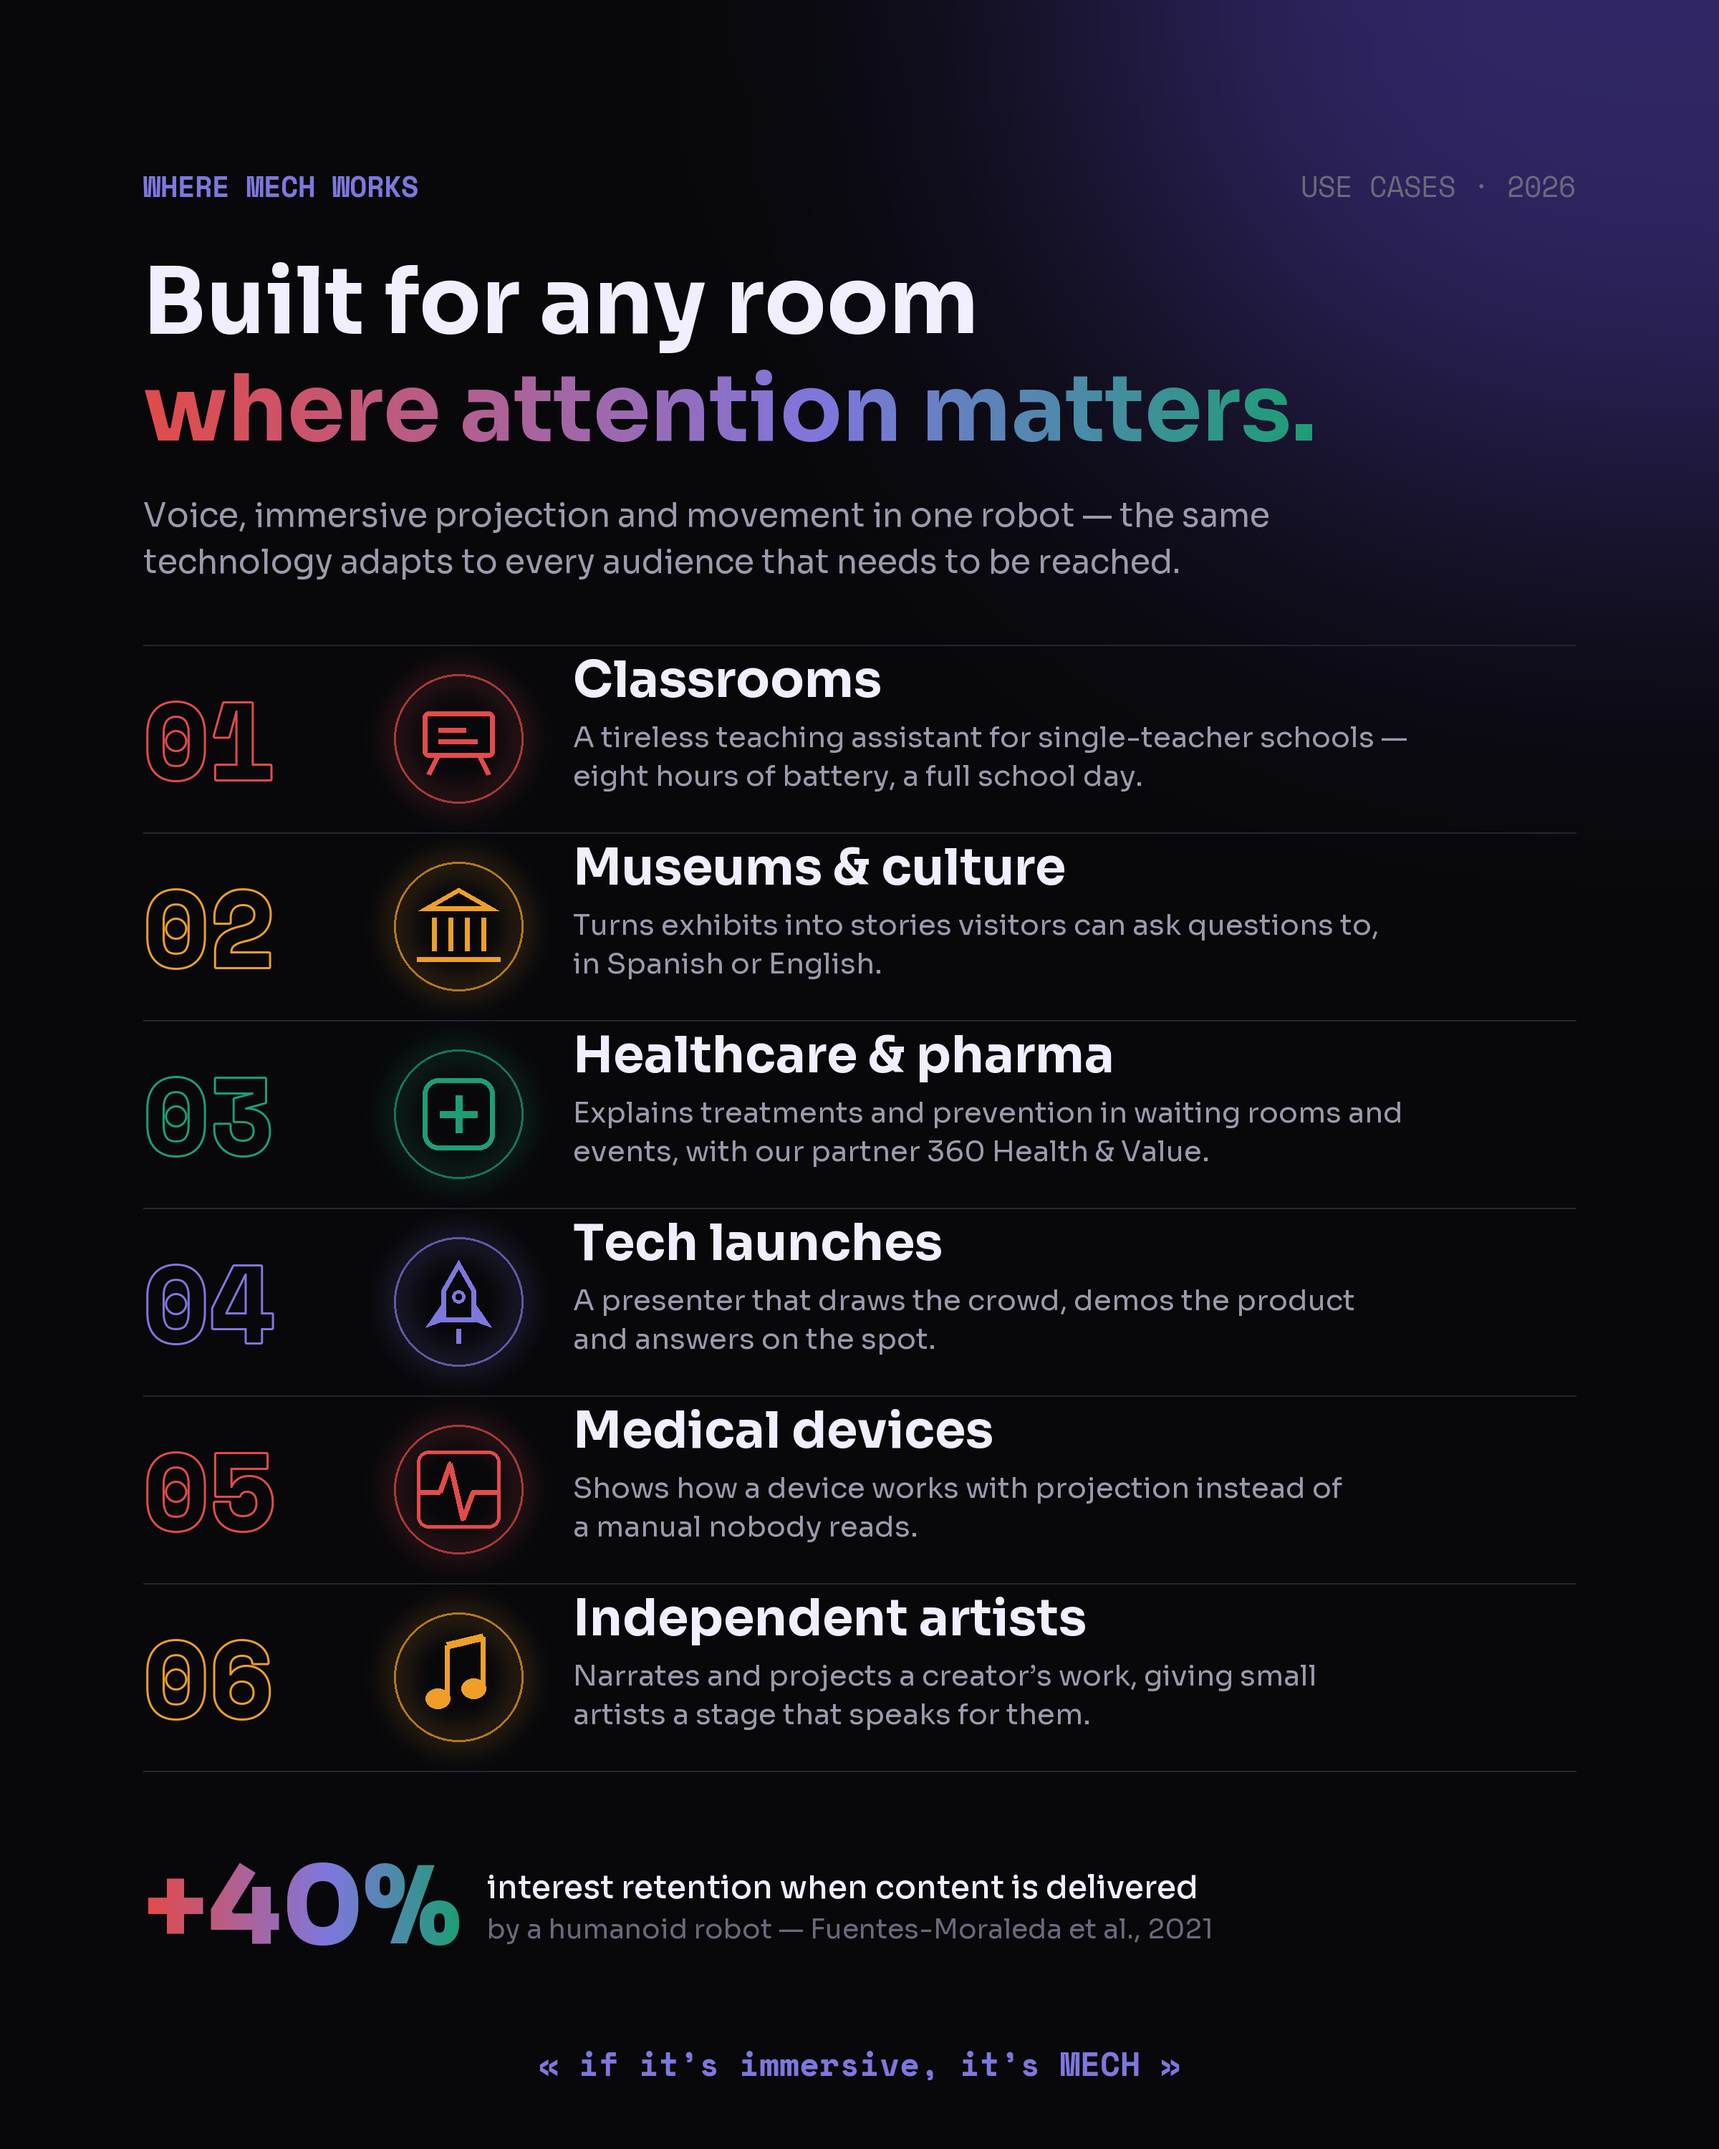
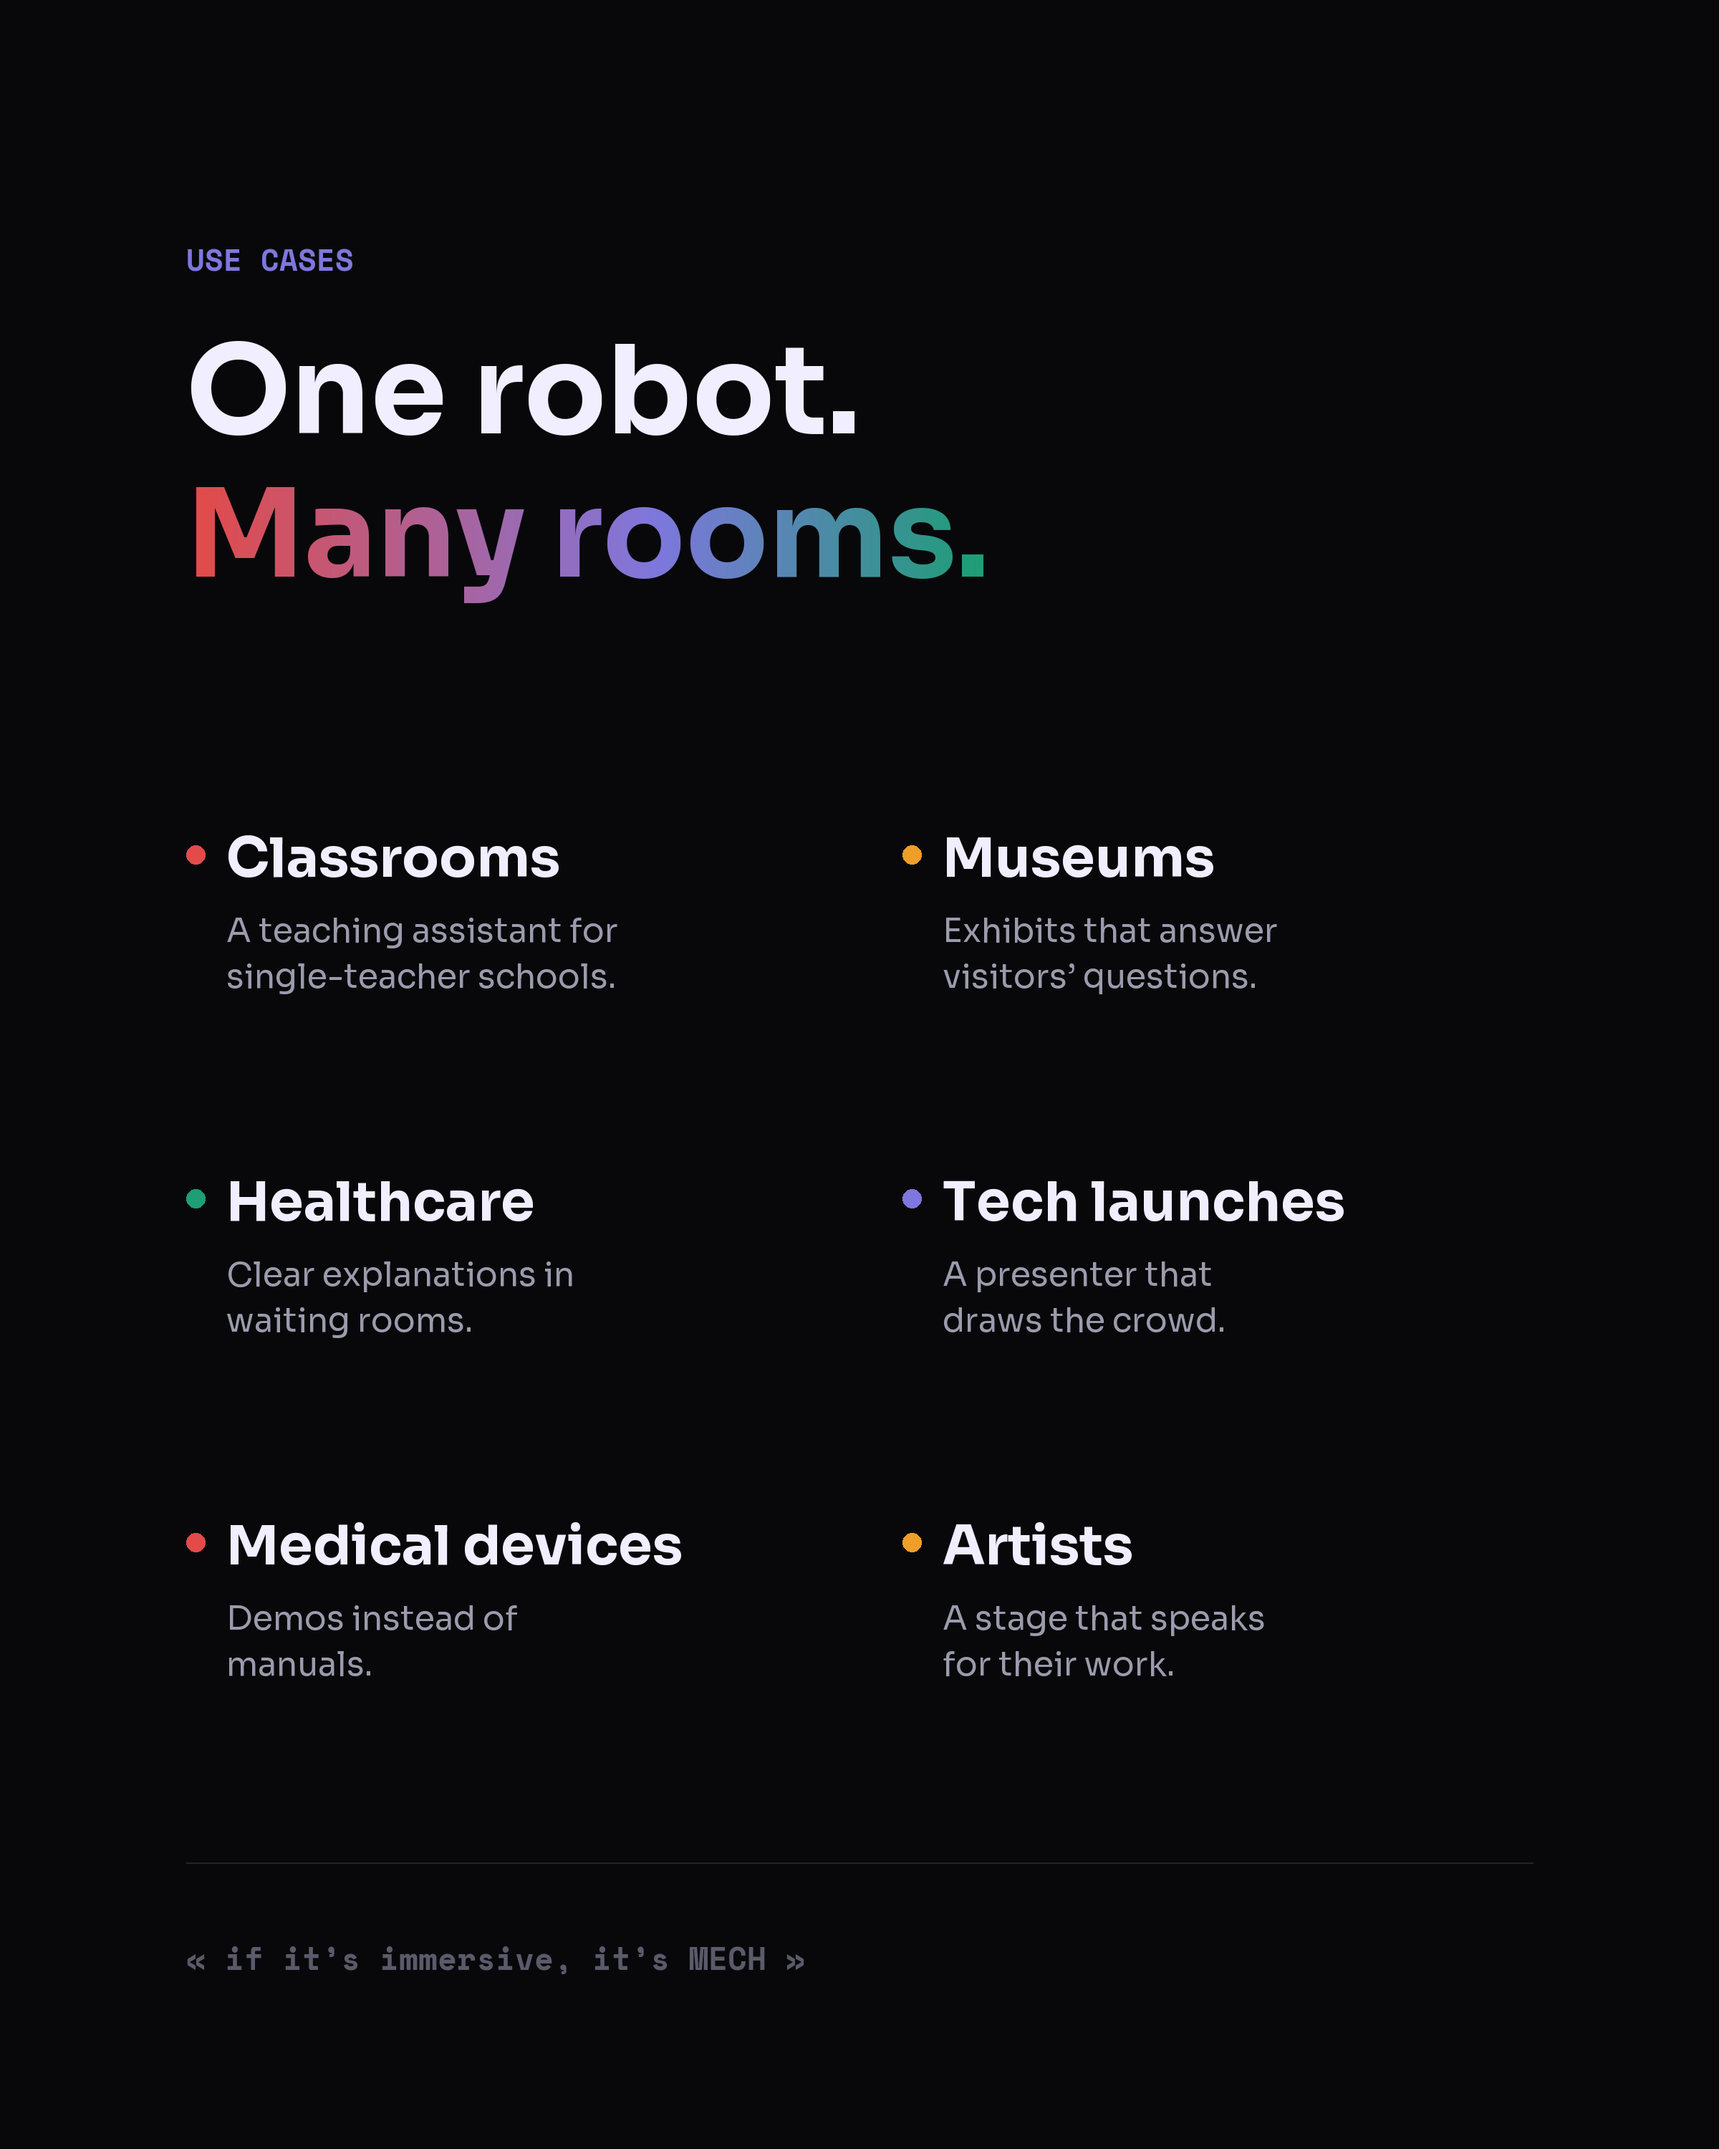
Ficha de usos EN mas simple y ojo del render 2D con borde inferior recto

diff --git a/branding/scripts/ficha_usos_en.py b/branding/scripts/ficha_usos_en.py
@@ -1,130 +1,61 @@
-# Ficha de usos EN INGLES (distinta de ficha_usos.py): lista editorial numerada,
-# un uso por fila con numero grande en contorno, icono de linea y descripcion.
-# Sin MECH al centro. Fondo negro del stand. -> branding/stand/ficha-usos-en.png
-import os, math
+# Ficha de usos EN INGLES, version simple: titulo corto y seis usos en dos
+# columnas (punto de color + nombre + una linea). Mucho aire, sin iconos ni
+# numeros. Sin MECH al centro. Fondo negro del stand. -> branding/stand/ficha-usos-en.png
+import os
 import numpy as np
-from PIL import Image, ImageDraw, ImageFont, ImageFilter
+from PIL import Image, ImageDraw, ImageFont
 
 HERE = os.path.dirname(os.path.abspath(__file__))
 OUT = os.path.join(HERE, '..', 'stand', 'ficha-usos-en.png')
 W, H = 2400, 3000
-BG = (8, 8, 11); TEXT = (240, 238, 255); MUTED = (155, 155, 173); DIM = (106, 106, 124)
-RED = (226, 75, 74); PUR = (83, 74, 183); PURM = (127, 119, 221); AMB = (239, 159, 39); TEAL = (29, 158, 117)
+BG = (8, 8, 11); TEXT = (240, 238, 255); MUTED = (155, 155, 173); DIM = (90, 90, 106)
+RED = (226, 75, 74); PURM = (127, 119, 221); AMB = (239, 159, 39); TEAL = (29, 158, 117)
 
 def sora(size, wt):
     f = ImageFont.truetype(os.path.join(HERE, 'Sora.ttf'), size); f.set_variation_by_axes([wt]); return f
-def mono(size, bold=True):
-    return ImageFont.truetype(os.path.join(HERE, 'SpaceMono-Bold.ttf' if bold else 'SpaceMono-Regular.ttf'), size)
+def mono(size):
+    return ImageFont.truetype(os.path.join(HERE, 'SpaceMono-Bold.ttf'), size)
 
 img = Image.new('RGB', (W, H), BG)
 d = ImageDraw.Draw(img)
 
-def grad_text(xy, txt, font, stops, anchor='la'):
+def grad_text(xy, txt, font, stops):
     m = Image.new('L', (W, H), 0)
-    ImageDraw.Draw(m).text(xy, txt, font=font, fill=255, anchor=anchor)
-    box = m.getbbox()
-    if not box: return
-    x0, x1 = box[0], box[2]
-    t = np.clip((np.arange(W) - x0) / max(1, x1 - x0), 0, 1)
+    ImageDraw.Draw(m).text(xy, txt, font=font, fill=255)
+    x0, _, x1, _ = m.getbbox()
+    t = np.clip((np.arange(W) - x0) / (x1 - x0), 0, 1)
     cols = np.zeros((W, 3))
-    for i in range(len(stops) - 1):
-        p0, c0 = stops[i]; p1, c1 = stops[i + 1]
+    for (p0, c0), (p1, c1) in zip(stops, stops[1:]):
         sel = (t >= p0) & (t <= p1)
         k = ((t[sel] - p0) / (p1 - p0))[:, None]
         cols[sel] = np.array(c0) * (1 - k) + np.array(c1) * k
-    layer = Image.fromarray(np.repeat(cols[None], H, axis=0).astype(np.uint8), 'RGB')
-    img.paste(layer, (0, 0), m)
+    img.paste(Image.fromarray(np.repeat(cols[None], H, 0).astype(np.uint8)), (0, 0), m)
 
-STOPS = [(0, RED), (.58, PURM), (1, TEAL)]
-L = 200; R = W - 200
+L = 260
 
-# halo tenue arriba a la derecha
-glow = Image.new('RGB', (W, H), (0, 0, 0))
-ImageDraw.Draw(glow).ellipse([1500, -500, 2900, 700], fill=(40, 30, 90))
-img = Image.fromarray(np.clip(np.array(img, int) + np.array(glow.filter(ImageFilter.GaussianBlur(260)), int), 0, 255).astype(np.uint8))
-d = ImageDraw.Draw(img)
+d.text((L, 330), 'USE CASES', font=mono(42), fill=PURM)
+d.text((L, 440), 'One robot.', font=sora(170, 700), fill=TEXT)
+grad_text((L, 640), 'Many rooms.', sora(170, 700), [(0, RED), (.58, PURM), (1, TEAL)])
 
-# cabecera
-d.text((L, 230), 'WHERE MECH WORKS', font=mono(40), fill=PURM)
-d.text((R, 230), 'USE CASES · 2026', font=mono(40, False), fill=DIM, anchor='ra')
-d.text((L, 340), 'Built for any room', font=sora(128, 700), fill=TEXT)
-grad_text((L, 490), 'where attention matters.', sora(128, 700), STOPS)
-d.text((L, 690), 'Voice, immersive projection and movement in one robot — the same', font=sora(46, 400), fill=MUTED)
-d.text((L, 755), 'technology adapts to every audience that needs to be reached.', font=sora(46, 400), fill=MUTED)
-
-# iconos de linea (en caja de 110 px centrada en cx, cy)
-def icon(kind, cx, cy, col):
-    w = 7
-    if kind == 'class':
-        d.rounded_rectangle([cx - 50, cy - 38, cx + 50, cy + 26], 8, outline=col, width=w)
-        d.line([cx - 30, cy + 26, cx - 42, cy + 50], fill=col, width=w)
-        d.line([cx + 30, cy + 26, cx + 42, cy + 50], fill=col, width=w)
-        d.line([cx - 28, cy - 12, cx + 10, cy - 12], fill=col, width=w)
-        d.line([cx - 28, cy + 4, cx + 26, cy + 4], fill=col, width=w)
-    elif kind == 'museum':
-        d.polygon([(cx - 56, cy - 22), (cx, cy - 54), (cx + 56, cy - 22)], outline=col, width=w)
-        for x in (-34, -11, 12, 35):
-            d.line([cx + x, cy - 12, cx + x, cy + 34], fill=col, width=w)
-        d.line([cx - 58, cy + 46, cx + 58, cy + 46], fill=col, width=w)
-    elif kind == 'health':
-        d.rounded_rectangle([cx - 50, cy - 50, cx + 50, cy + 50], 22, outline=col, width=w)
-        d.line([cx, cy - 26, cx, cy + 26], fill=col, width=w + 3)
-        d.line([cx - 26, cy, cx + 26, cy], fill=col, width=w + 3)
-    elif kind == 'launch':
-        d.polygon([(cx, cy - 58), (cx + 24, cy - 16), (cx + 24, cy + 28), (cx - 24, cy + 28), (cx - 24, cy - 16)], outline=col, width=w)
-        d.ellipse([cx - 9, cy - 16, cx + 9, cy + 2], outline=col, width=5)
-        d.polygon([(cx - 24, cy + 4), (cx - 46, cy + 36), (cx - 24, cy + 28)], outline=col, width=w)
-        d.polygon([(cx + 24, cy + 4), (cx + 46, cy + 36), (cx + 24, cy + 28)], outline=col, width=w)
-        d.line([cx, cy + 38, cx, cy + 58], fill=col, width=w)
-    elif kind == 'device':
-        pts = [(cx - 58, cy + 4), (cx - 26, cy + 4), (cx - 12, cy - 36), (cx + 6, cy + 42), (cx + 20, cy + 4), (cx + 58, cy + 4)]
-        d.line(pts, fill=col, width=w, joint='curve')
-        d.rounded_rectangle([cx - 58, cy - 54, cx + 58, cy + 54], 16, outline=col, width=5)
-    elif kind == 'art':
-        d.line([cx - 16, cy + 30, cx - 16, cy - 44], fill=col, width=w)
-        d.line([cx + 34, cy + 16, cx + 34, cy - 56], fill=col, width=w)
-        d.line([cx - 16, cy - 44, cx + 34, cy - 56], fill=col, width=w + 4)
-        d.ellipse([cx - 46, cy + 16, cx - 12, cy + 44], fill=col)
-        d.ellipse([cx + 4, cy + 2, cx + 38, cy + 30], fill=col)
-
-ROWS = [
-    ('class', RED, 'Classrooms', 'A tireless teaching assistant for single-teacher schools —', 'eight hours of battery, a full school day.'),
-    ('museum', AMB, 'Museums & culture', 'Turns exhibits into stories visitors can ask questions to,', 'in Spanish or English.'),
-    ('health', TEAL, 'Healthcare & pharma', 'Explains treatments and prevention in waiting rooms and', 'events, with our partner 360 Health & Value.'),
-    ('launch', PURM, 'Tech launches', 'A presenter that draws the crowd, demos the product', 'and answers on the spot.'),
-    ('device', RED, 'Medical devices', 'Shows how a device works with projection instead of', 'a manual nobody reads.'),
-    ('art', AMB, 'Independent artists', 'Narrates and projects a creator’s work, giving small', 'artists a stage that speaks for them.'),
+USES = [
+    (RED, 'Classrooms', 'A teaching assistant for\nsingle-teacher schools.'),
+    (AMB, 'Museums', 'Exhibits that answer\nvisitors’ questions.'),
+    (TEAL, 'Healthcare', 'Clear explanations in\nwaiting rooms.'),
+    (PURM, 'Tech launches', 'A presenter that\ndraws the crowd.'),
+    (RED, 'Medical devices', 'Demos instead of\nmanuals.'),
+    (AMB, 'Artists', 'A stage that speaks\nfor their work.'),
 ]
 
-y0, rowh = 900, 262
-nfont = mono(150)
-for i, (kind, col, title, l1, l2) in enumerate(ROWS):
-    y = y0 + i * rowh
-    d.line([L, y, R, y], fill=(38, 38, 48), width=2)
-    cy = y + rowh // 2
-    # numero en contorno
-    d.text((L, cy), f'{i + 1:02d}', font=nfont, fill=BG, anchor='lm', stroke_width=3, stroke_fill=col)
-    # icono en circulo fino con glow
-    icx = L + 440
-    g = Image.new('RGB', (W, H), (0, 0, 0))
-    ImageDraw.Draw(g).ellipse([icx - 92, cy - 92, icx + 92, cy + 92], outline=col, width=10)
-    g = g.filter(ImageFilter.GaussianBlur(18))
-    img = Image.fromarray(np.clip(np.array(img, int) + (np.array(g, int) * .5).astype(int), 0, 255).astype(np.uint8))
-    d = ImageDraw.Draw(img)
-    d.ellipse([icx - 90, cy - 90, icx + 90, cy + 90], outline=tuple(int(c * .75) for c in col), width=3)
-    icon(kind, icx, cy, col)
-    tx = L + 600
-    d.text((tx, cy - 58), title, font=sora(70, 700), fill=TEXT, anchor='ls')
-    d.text((tx, cy + 12), l1, font=sora(40, 400), fill=MUTED, anchor='ls')
-    d.text((tx, cy + 66), l2, font=sora(40, 400), fill=MUTED, anchor='ls')
-d.line([L, y0 + 6 * rowh, R, y0 + 6 * rowh], fill=(38, 38, 48), width=2)
+top, colw, rowh = 1150, 1000, 480
+for i, (col, title, desc) in enumerate(USES):
+    x = L + (i % 2) * colw
+    y = top + (i // 2) * rowh
+    d.ellipse([x, y + 30, x + 26, y + 56], fill=col)
+    d.text((x + 56, y), title, font=sora(76, 700), fill=TEXT)
+    d.multiline_text((x + 56, y + 120), desc, font=sora(46, 400), fill=MUTED, spacing=18)
 
-# pie: dato + eslogan
-fy = y0 + 6 * rowh + 95
-grad_text((L, fy), '+40%', sora(150, 800), STOPS)
-d.text((L + 480, fy + 40), 'interest retention when content is delivered', font=sora(44, 500), fill=TEXT)
-d.text((L + 480, fy + 102), 'by a humanoid robot — Fuentes-Moraleda et al., 2021', font=sora(38, 400), fill=DIM)
-d.text((W // 2, H - 120), '« if it’s immersive, it’s MECH »', font=mono(46), fill=PURM, anchor='mm')
+d.line([L, H - 400, W - L, H - 400], fill=(34, 34, 44), width=2)
+d.text((L, H - 300), '« if it’s immersive, it’s MECH »', font=mono(44), fill=DIM)
 
 img.save(OUT, 'PNG', optimize=True)
-print('ok', OUT)
+print('ok')

diff --git a/branding/scripts/render_2d_mech3.py b/branding/scripts/render_2d_mech3.py
@@ -77,11 +77,15 @@ rect(676, 426, 700, 575, MINT_L)
 rect(386, 44, 1274, 434, BLACK, r=6, outline=RIM, w=2)
 rect(390, 44, 1270, 52, (70, 74, 80))
 
-# ojo grande (anillo con abertura abajo)
+# ojo grande: anillo blanco con el borde de abajo recto (como en el 3D)
 ex, ey = 590, 245
-ell(ex, ey, 132, 124, WHITE)
-ell(ex - 4, ey - 2, 58, 58, BLACK)
-ell(ex - 2, ey + 88, 30, 17, BLACK)
+eye = Image.new('L', cv.size, 0)
+ed = ImageDraw.Draw(eye)
+ed.ellipse([S(ex - 132), S(ey - 124), S(ex + 132), S(ey + 124)], fill=255)
+ed.rectangle([S(ex - 140), S(ey + 92), S(ex + 140), S(ey + 130)], fill=0)
+ed.ellipse([S(ex - 62), S(ey - 62), S(ex + 54), S(ey + 54)], fill=0)
+cv.paste(Image.new('RGBA', cv.size, WHITE + (255,)), (0, 0), eye)
+d = ImageDraw.Draw(cv)
 # ceja izquierda (media luna inclinada)
 cej = Image.new('RGBA', cv.size, (0, 0, 0, 0))
 cd = ImageDraw.Draw(cej)
